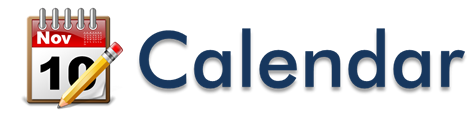
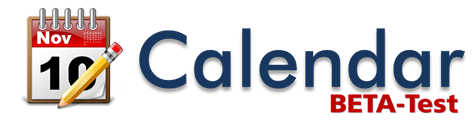
Dashboard: GUI fixes

Changed region(s): [[0.6779, 0.775, 0.9726, 0.95]]

diff --git a/NewBizWizForm/TabCalendarForms/CalendarBuilderControl.Designer.cs b/NewBizWizForm/TabCalendarForms/CalendarBuilderControl.Designer.cs
@@ -47,6 +47,7 @@
             this.laNoSlidesWarningText2 = new System.Windows.Forms.Label();
             this.pbNoSlidesWarning = new System.Windows.Forms.PictureBox();
             this.laNoSlidesWarningText1 = new System.Windows.Forms.Label();
+            this.pbBetaTest = new System.Windows.Forms.PictureBox();
             ((System.ComponentModel.ISupportInitialize)(this.pbTitle)).BeginInit();
             ((System.ComponentModel.ISupportInitialize)(this.pbLogo)).BeginInit();
             ((System.ComponentModel.ISupportInitialize)(this.gridControlCalendars)).BeginInit();
@@ -57,6 +58,7 @@
             ((System.ComponentModel.ISupportInitialize)(this.pbNoDataWarning)).BeginInit();
             this.pnNoSlidesWarning.SuspendLayout();
             ((System.ComponentModel.ISupportInitialize)(this.pbNoSlidesWarning)).BeginInit();
+            ((System.ComponentModel.ISupportInitialize)(this.pbBetaTest)).BeginInit();
             this.SuspendLayout();
             // 
             // pbTitle
@@ -74,6 +76,7 @@
             // 
             this.pbLogo.Anchor = ((System.Windows.Forms.AnchorStyles)(((System.Windows.Forms.AnchorStyles.Bottom | System.Windows.Forms.AnchorStyles.Left) 
             | System.Windows.Forms.AnchorStyles.Right)));
+            this.pbLogo.Image = global::NewBizWizForm.Properties.Resources.CalendarLogo;
             this.pbLogo.Location = new System.Drawing.Point(666, 208);
             this.pbLogo.Name = "pbLogo";
             this.pbLogo.Size = new System.Drawing.Size(225, 266);
@@ -325,10 +328,23 @@
     "d:";
             this.laNoSlidesWarningText1.UseMnemonic = false;
             // 
+            // pbBetaTest
+            // 
+            this.pbBetaTest.Anchor = ((System.Windows.Forms.AnchorStyles)(((System.Windows.Forms.AnchorStyles.Bottom | System.Windows.Forms.AnchorStyles.Left) 
+            | System.Windows.Forms.AnchorStyles.Right)));
+            this.pbBetaTest.Image = global::NewBizWizForm.Properties.Resources.BetaTest;
+            this.pbBetaTest.Location = new System.Drawing.Point(664, 13);
+            this.pbBetaTest.Name = "pbBetaTest";
+            this.pbBetaTest.Size = new System.Drawing.Size(227, 34);
+            this.pbBetaTest.SizeMode = System.Windows.Forms.PictureBoxSizeMode.Zoom;
+            this.pbBetaTest.TabIndex = 37;
+            this.pbBetaTest.TabStop = false;
+            // 
             // CalendarBuilderControl
             // 
             this.AutoScaleMode = System.Windows.Forms.AutoScaleMode.None;
             this.BackColor = System.Drawing.Color.FromArgb(((int)(((byte)(175)))), ((int)(((byte)(210)))), ((int)(((byte)(255)))));
+            this.Controls.Add(this.pbBetaTest);
             this.Controls.Add(this.laTitle);
             this.Controls.Add(this.pbLogo);
             this.Controls.Add(this.pbTitle);
@@ -348,6 +364,7 @@
             ((System.ComponentModel.ISupportInitialize)(this.pbNoDataWarning)).EndInit();
             this.pnNoSlidesWarning.ResumeLayout(false);
             ((System.ComponentModel.ISupportInitialize)(this.pbNoSlidesWarning)).EndInit();
+            ((System.ComponentModel.ISupportInitialize)(this.pbBetaTest)).EndInit();
             this.ResumeLayout(false);
 
         }
@@ -373,6 +390,7 @@
         private System.Windows.Forms.Label laNoSlidesWarningText2;
         private System.Windows.Forms.PictureBox pbNoSlidesWarning;
         private System.Windows.Forms.Label laNoSlidesWarningText1;
+        private System.Windows.Forms.PictureBox pbBetaTest;
 
     }
 }

diff --git a/NewBizWizForm/Properties/Resources.Designer.cs b/NewBizWizForm/Properties/Resources.Designer.cs
@@ -1,7 +1,7 @@
 //------------------------------------------------------------------------------
 // <auto-generated>
 //     This code was generated by a tool.
-//     Runtime Version:4.0.30319.239
+//     Runtime Version:4.0.30319.261
 //
 //     Changes to this file may cause incorrect behavior and will be lost if
 //     the code is regenerated.
@@ -88,6 +88,13 @@ namespace NewBizWizForm.Properties {
             }
         }
         
+        internal static System.Drawing.Bitmap BetaTest {
+            get {
+                object obj = ResourceManager.GetObject("BetaTest", resourceCulture);
+                return ((System.Drawing.Bitmap)(obj));
+            }
+        }
+        
         internal static System.Drawing.Bitmap CableLittle {
             get {
                 object obj = ResourceManager.GetObject("CableLittle", resourceCulture);
@@ -112,6 +119,13 @@ namespace NewBizWizForm.Properties {
         internal static System.Drawing.Bitmap CalendarLittle {
             get {
                 object obj = ResourceManager.GetObject("CalendarLittle", resourceCulture);
+                return ((System.Drawing.Bitmap)(obj));
+            }
+        }
+        
+        internal static System.Drawing.Bitmap CalendarLogo {
+            get {
+                object obj = ResourceManager.GetObject("CalendarLogo", resourceCulture);
                 return ((System.Drawing.Bitmap)(obj));
             }
         }
